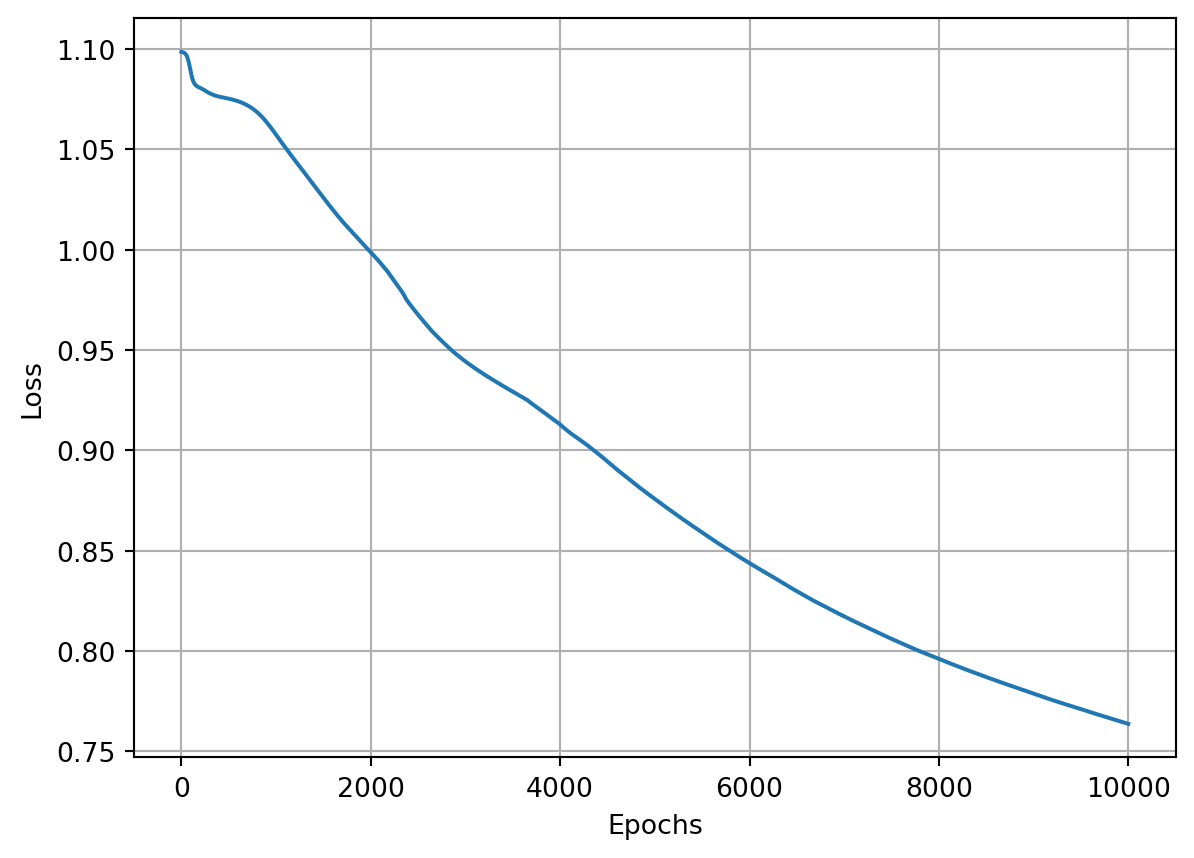
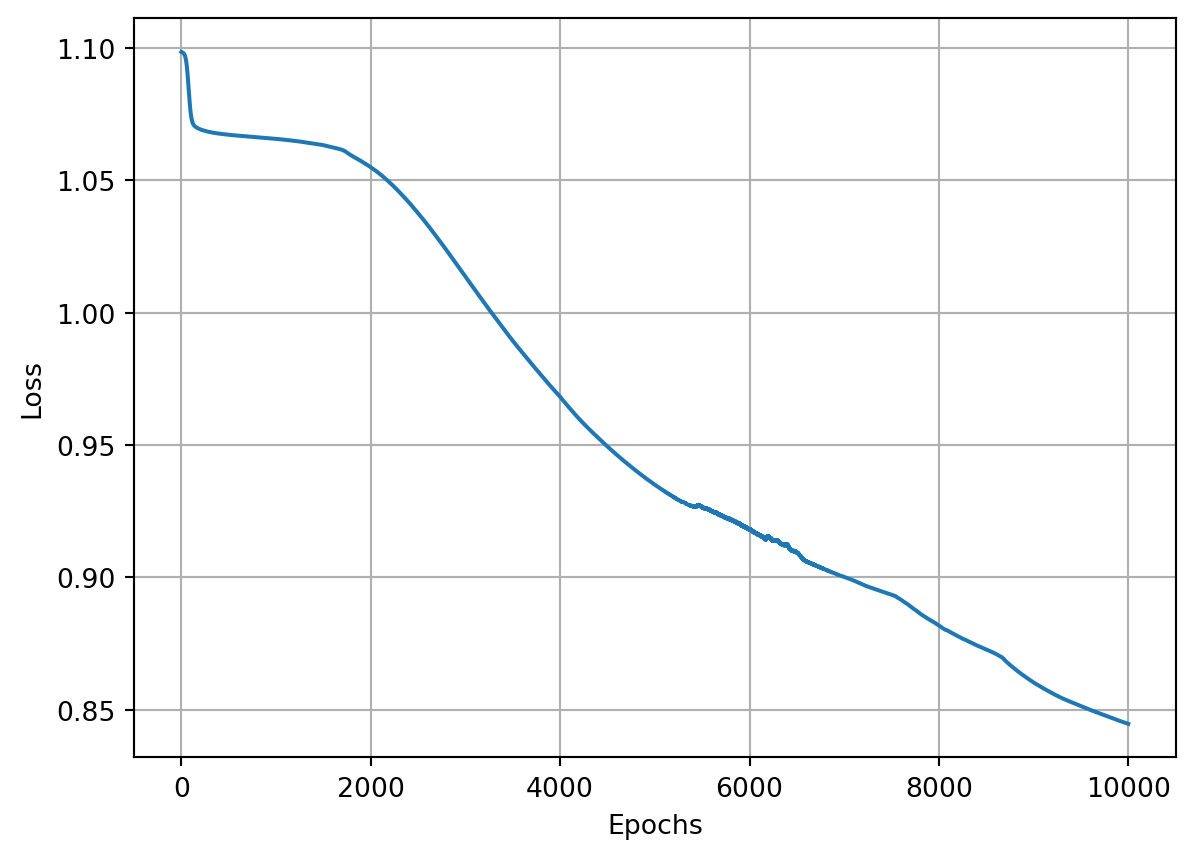
optimization

diff --git a/docs/posts/optimization_algorithms/index.html b/docs/posts/optimization_algorithms/index.html
@@ -646,7 +646,7 @@ w_{k+1} := w_k - \alpha_k \nabla \mathcal{L}(w_{k}) = w_k - \alpha_k \nabla L_i(
 <span id="cb11-25"><a href="#cb11-25" aria-hidden="true" tabindex="-1"></a>optimizer.update_params(dense1)</span>
 <span id="cb11-26"><a href="#cb11-26" aria-hidden="true" tabindex="-1"></a>optimizer.update_params(dense2)</span></code><button title="Copy to Clipboard" class="code-copy-button"><i class="bi"></i></button></pre></div>
 <div class="cell-output cell-output-stdout">
-<pre><code>Loss = 1.098611293170344</code></pre>
+<pre><code>Loss = 1.0986526582562541</code></pre>
 </div>
 </div>
 <p>This is everything we need to train our model!</p>
@@ -704,16 +704,16 @@ w_{k+1} := w_k - \alpha_k \nabla \mathcal{L}(w_{k}) = w_k - \alpha_k \nabla L_i(
 <span id="cb13-49"><a href="#cb13-49" aria-hidden="true" tabindex="-1"></a>    optimizer.update_params(dense2)</span></code><button title="Copy to Clipboard" class="code-copy-button"><i class="bi"></i></button></pre></div>
 <div class="cell-output cell-output-stdout">
 <pre><code>Epoch: 0, Loss:  1.099
-Epoch: 1000, Loss:  1.038
-Epoch: 2000, Loss:  1.003
-Epoch: 3000, Loss:  1.010
-Epoch: 4000, Loss:  0.957
-Epoch: 5000, Loss:  0.925
-Epoch: 6000, Loss:  0.916
-Epoch: 7000, Loss:  0.859
-Epoch: 8000, Loss:  0.793
-Epoch: 9000, Loss:  0.765
-Epoch: 10000, Loss:  0.739</code></pre>
+Epoch: 1000, Loss:  1.029
+Epoch: 2000, Loss:  0.962
+Epoch: 3000, Loss:  0.848
+Epoch: 4000, Loss:  0.699
+Epoch: 5000, Loss:  0.544
+Epoch: 6000, Loss:  0.508
+Epoch: 7000, Loss:  0.478
+Epoch: 8000, Loss:  0.460
+Epoch: 9000, Loss:  0.443
+Epoch: 10000, Loss:  0.419</code></pre>
 </div>
 </div>
 <p>Our neural network mostly stays stuck at around a loss of <span class="math inline">\(1.0\)</span> and later around <span class="math inline">\(0.85\)</span>-<span class="math inline">\(0.90\)</span> Given that this loss didn’t decrease much, we can assume that this learning rate being too high, also caused the model to get stuck in a <strong>local minimum</strong>, which we’ll learn more about soon. Iterating over more epochs, doesn’t seem helpful at this point, which tells us that we’re likely stuck with our optimization. Does this mean that this is the most we can get from our optimizer on this dataset?</p>
@@ -869,17 +869,17 @@ Epoch: 10000, Loss:  0.739</code></pre>
 <div class="cell" data-execution_count="16">
 <div class="sourceCode cell-code" id="cb20"><pre class="sourceCode python code-with-copy"><code class="sourceCode python"><span id="cb20-1"><a href="#cb20-1" aria-hidden="true" tabindex="-1"></a>acc_vals, loss_vals, lr_vals <span class="op">=</span> train(decay<span class="op">=</span><span class="fl">0.01</span>)</span></code><button title="Copy to Clipboard" class="code-copy-button"><i class="bi"></i></button></pre></div>
 <div class="cell-output cell-output-stdout">
-<pre><code>epoch: 0,                 acc : 0.357,                 loss:  1.099,                 lr : 1.0
-epoch: 1000,                 acc : 0.417,                 loss:  1.064,                 lr : 0.09099181073703366
-epoch: 2000,                 acc : 0.407,                 loss:  1.063,                 lr : 0.047641734159123386
-epoch: 3000,                 acc : 0.420,                 loss:  1.062,                 lr : 0.03226847370119393
-epoch: 4000,                 acc : 0.420,                 loss:  1.062,                 lr : 0.02439619419370578
-epoch: 5000,                 acc : 0.423,                 loss:  1.061,                 lr : 0.019611688566385566
-epoch: 6000,                 acc : 0.427,                 loss:  1.061,                 lr : 0.016396130513198885
-epoch: 7000,                 acc : 0.427,                 loss:  1.061,                 lr : 0.014086491055078181
-epoch: 8000,                 acc : 0.430,                 loss:  1.060,                 lr : 0.012347203358439314
-epoch: 9000,                 acc : 0.440,                 loss:  1.060,                 lr : 0.010990218705352238
-epoch: 10000,                 acc : 0.440,                 loss:  1.060,                 lr : 0.009901970492127933</code></pre>
+<pre><code>epoch: 0,                 acc : 0.333,                 loss:  1.099,                 lr : 1.0
+epoch: 1000,                 acc : 0.477,                 loss:  1.066,                 lr : 0.09099181073703366
+epoch: 2000,                 acc : 0.457,                 loss:  1.065,                 lr : 0.047641734159123386
+epoch: 3000,                 acc : 0.453,                 loss:  1.065,                 lr : 0.03226847370119393
+epoch: 4000,                 acc : 0.450,                 loss:  1.064,                 lr : 0.02439619419370578
+epoch: 5000,                 acc : 0.440,                 loss:  1.064,                 lr : 0.019611688566385566
+epoch: 6000,                 acc : 0.443,                 loss:  1.063,                 lr : 0.016396130513198885
+epoch: 7000,                 acc : 0.447,                 loss:  1.063,                 lr : 0.014086491055078181
+epoch: 8000,                 acc : 0.447,                 loss:  1.063,                 lr : 0.012347203358439314
+epoch: 9000,                 acc : 0.447,                 loss:  1.062,                 lr : 0.010990218705352238
+epoch: 10000,                 acc : 0.447,                 loss:  1.062,                 lr : 0.009901970492127933</code></pre>
 </div>
 </div>
 <div class="cell" data-execution_count="17">
@@ -926,17 +926,17 @@ epoch: 10000,                 acc : 0.440,                 loss:  1.060,        
 <div class="cell" data-execution_count="20">
 <div class="sourceCode cell-code" id="cb25"><pre class="sourceCode python code-with-copy"><code class="sourceCode python"><span id="cb25-1"><a href="#cb25-1" aria-hidden="true" tabindex="-1"></a>acc_vals, loss_vals, lr_vals <span class="op">=</span> train(decay<span class="op">=</span><span class="fl">1e-3</span>)</span></code><button title="Copy to Clipboard" class="code-copy-button"><i class="bi"></i></button></pre></div>
 <div class="cell-output cell-output-stdout">
-<pre><code>epoch: 0,                 acc : 0.300,                 loss:  1.099,                 lr : 1.0
-epoch: 1000,                 acc : 0.410,                 loss:  1.057,                 lr : 0.5002501250625312
-epoch: 2000,                 acc : 0.423,                 loss:  0.999,                 lr : 0.33344448149383127
-epoch: 3000,                 acc : 0.480,                 loss:  0.944,                 lr : 0.25006251562890724
-epoch: 4000,                 acc : 0.517,                 loss:  0.913,                 lr : 0.2000400080016003
-epoch: 5000,                 acc : 0.557,                 loss:  0.876,                 lr : 0.16669444907484582
-epoch: 6000,                 acc : 0.587,                 loss:  0.844,                 lr : 0.1428775539362766
-epoch: 7000,                 acc : 0.593,                 loss:  0.817,                 lr : 0.12501562695336915
-epoch: 8000,                 acc : 0.600,                 loss:  0.796,                 lr : 0.11112345816201799
-epoch: 9000,                 acc : 0.617,                 loss:  0.779,                 lr : 0.1000100010001
-epoch: 10000,                 acc : 0.623,                 loss:  0.764,                 lr : 0.09091735612328393</code></pre>
+<pre><code>epoch: 0,                 acc : 0.327,                 loss:  1.099,                 lr : 1.0
+epoch: 1000,                 acc : 0.410,                 loss:  1.066,                 lr : 0.5002501250625312
+epoch: 2000,                 acc : 0.413,                 loss:  1.055,                 lr : 0.33344448149383127
+epoch: 3000,                 acc : 0.457,                 loss:  1.014,                 lr : 0.25006251562890724
+epoch: 4000,                 acc : 0.527,                 loss:  0.968,                 lr : 0.2000400080016003
+epoch: 5000,                 acc : 0.547,                 loss:  0.935,                 lr : 0.16669444907484582
+epoch: 6000,                 acc : 0.563,                 loss:  0.918,                 lr : 0.1428775539362766
+epoch: 7000,                 acc : 0.573,                 loss:  0.900,                 lr : 0.12501562695336915
+epoch: 8000,                 acc : 0.577,                 loss:  0.882,                 lr : 0.11112345816201799
+epoch: 9000,                 acc : 0.590,                 loss:  0.860,                 lr : 0.1000100010001
+epoch: 10000,                 acc : 0.603,                 loss:  0.845,                 lr : 0.09091735612328393</code></pre>
 </div>
 </div>
 <div class="cell" data-execution_count="21">
@@ -1218,34 +1218,34 @@ R_j = \frac{R-\sigma_j I}{\sigma_1 - \sigma_2}
 <div class="cell" data-execution_count="26">
 <div class="sourceCode cell-code" id="cb32"><pre class="sourceCode python code-with-copy"><code class="sourceCode python"><span id="cb32-1"><a href="#cb32-1" aria-hidden="true" tabindex="-1"></a>acc_vals, loss_vals, lr_vals <span class="op">=</span> train(decay<span class="op">=</span><span class="fl">1e-3</span>, momentum<span class="op">=</span><span class="fl">0.5</span>)</span></code><button title="Copy to Clipboard" class="code-copy-button"><i class="bi"></i></button></pre></div>
 <div class="cell-output cell-output-stdout">
-<pre><code>epoch: 0,                 acc : 0.333,                 loss:  1.099,                 lr : 1.0
-epoch: 1000,                 acc : 0.540,                 loss:  0.991,                 lr : 0.5002501250625312
-epoch: 2000,                 acc : 0.520,                 loss:  0.903,                 lr : 0.33344448149383127
-epoch: 3000,                 acc : 0.570,                 loss:  0.851,                 lr : 0.25006251562890724
-epoch: 4000,                 acc : 0.607,                 loss:  0.827,                 lr : 0.2000400080016003
-epoch: 5000,                 acc : 0.640,                 loss:  0.756,                 lr : 0.16669444907484582
-epoch: 6000,                 acc : 0.673,                 loss:  0.676,                 lr : 0.1428775539362766
-epoch: 7000,                 acc : 0.680,                 loss:  0.606,                 lr : 0.12501562695336915
-epoch: 8000,                 acc : 0.780,                 loss:  0.530,                 lr : 0.11112345816201799
-epoch: 9000,                 acc : 0.807,                 loss:  0.483,                 lr : 0.1000100010001
-epoch: 10000,                 acc : 0.830,                 loss:  0.443,                 lr : 0.09091735612328393</code></pre>
+<pre><code>epoch: 0,                 acc : 0.337,                 loss:  1.099,                 lr : 1.0
+epoch: 1000,                 acc : 0.510,                 loss:  0.978,                 lr : 0.5002501250625312
+epoch: 2000,                 acc : 0.557,                 loss:  0.879,                 lr : 0.33344448149383127
+epoch: 3000,                 acc : 0.580,                 loss:  0.771,                 lr : 0.25006251562890724
+epoch: 4000,                 acc : 0.630,                 loss:  0.735,                 lr : 0.2000400080016003
+epoch: 5000,                 acc : 0.657,                 loss:  0.670,                 lr : 0.16669444907484582
+epoch: 6000,                 acc : 0.753,                 loss:  0.573,                 lr : 0.1428775539362766
+epoch: 7000,                 acc : 0.783,                 loss:  0.522,                 lr : 0.12501562695336915
+epoch: 8000,                 acc : 0.790,                 loss:  0.481,                 lr : 0.11112345816201799
+epoch: 9000,                 acc : 0.807,                 loss:  0.441,                 lr : 0.1000100010001
+epoch: 10000,                 acc : 0.843,                 loss:  0.401,                 lr : 0.09091735612328393</code></pre>
 </div>
 </div>
 <p>The model achieved the lowest loss and the highest accuracy that we’ve seen so far. Can we do better? Sure, we can! Let’s try to set the momentum to <span class="math inline">\(0.9\)</span>:</p>
 <div class="cell" data-execution_count="27">
 <div class="sourceCode cell-code" id="cb34"><pre class="sourceCode python code-with-copy"><code class="sourceCode python"><span id="cb34-1"><a href="#cb34-1" aria-hidden="true" tabindex="-1"></a>acc_vals, loss_vals, lr_vals <span class="op">=</span> train(decay<span class="op">=</span><span class="fl">1e-3</span>, momentum<span class="op">=</span><span class="fl">0.9</span>)</span></code><button title="Copy to Clipboard" class="code-copy-button"><i class="bi"></i></button></pre></div>
 <div class="cell-output cell-output-stdout">
-<pre><code>epoch: 0,                 acc : 0.363,                 loss:  1.099,                 lr : 1.0
-epoch: 1000,                 acc : 0.853,                 loss:  0.318,                 lr : 0.5002501250625312
-epoch: 2000,                 acc : 0.937,                 loss:  0.189,                 lr : 0.33344448149383127
-epoch: 3000,                 acc : 0.947,                 loss:  0.145,                 lr : 0.25006251562890724
-epoch: 4000,                 acc : 0.960,                 loss:  0.128,                 lr : 0.2000400080016003
-epoch: 5000,                 acc : 0.970,                 loss:  0.115,                 lr : 0.16669444907484582
-epoch: 6000,                 acc : 0.967,                 loss:  0.105,                 lr : 0.1428775539362766
-epoch: 7000,                 acc : 0.970,                 loss:  0.100,                 lr : 0.12501562695336915
-epoch: 8000,                 acc : 0.970,                 loss:  0.096,                 lr : 0.11112345816201799
-epoch: 9000,                 acc : 0.973,                 loss:  0.093,                 lr : 0.1000100010001
-epoch: 10000,                 acc : 0.973,                 loss:  0.090,                 lr : 0.09091735612328393</code></pre>
+<pre><code>epoch: 0,                 acc : 0.340,                 loss:  1.099,                 lr : 1.0
+epoch: 1000,                 acc : 0.763,                 loss:  0.463,                 lr : 0.5002501250625312
+epoch: 2000,                 acc : 0.790,                 loss:  0.407,                 lr : 0.33344448149383127
+epoch: 3000,                 acc : 0.803,                 loss:  0.396,                 lr : 0.25006251562890724
+epoch: 4000,                 acc : 0.813,                 loss:  0.391,                 lr : 0.2000400080016003
+epoch: 5000,                 acc : 0.813,                 loss:  0.386,                 lr : 0.16669444907484582
+epoch: 6000,                 acc : 0.813,                 loss:  0.384,                 lr : 0.1428775539362766
+epoch: 7000,                 acc : 0.813,                 loss:  0.375,                 lr : 0.12501562695336915
+epoch: 8000,                 acc : 0.833,                 loss:  0.332,                 lr : 0.11112345816201799
+epoch: 9000,                 acc : 0.880,                 loss:  0.285,                 lr : 0.1000100010001
+epoch: 10000,                 acc : 0.880,                 loss:  0.277,                 lr : 0.09091735612328393</code></pre>
 </div>
 </div>
 </section>

diff --git a/docs/index.html b/docs/index.html
@@ -185,7 +185,7 @@ Jun 20, 2024
 </div>
 </a>
 </div>
-<div class="g-col-1" data-index="1" data-categories="Machine Learning" data-listing-date-sort="1717970400000" data-listing-file-modified-sort="1719218083130" data-listing-date-modified-sort="NaN" data-listing-reading-time-sort="35">
+<div class="g-col-1" data-index="1" data-categories="Machine Learning" data-listing-date-sort="1717970400000" data-listing-file-modified-sort="1719218893363" data-listing-date-modified-sort="NaN" data-listing-reading-time-sort="35">
 <a href="./posts/optimization_algorithms/index.html" class="quarto-grid-link">
 <div class="quarto-grid-item card h-100 card-left">
 <p class="card-img-top">
